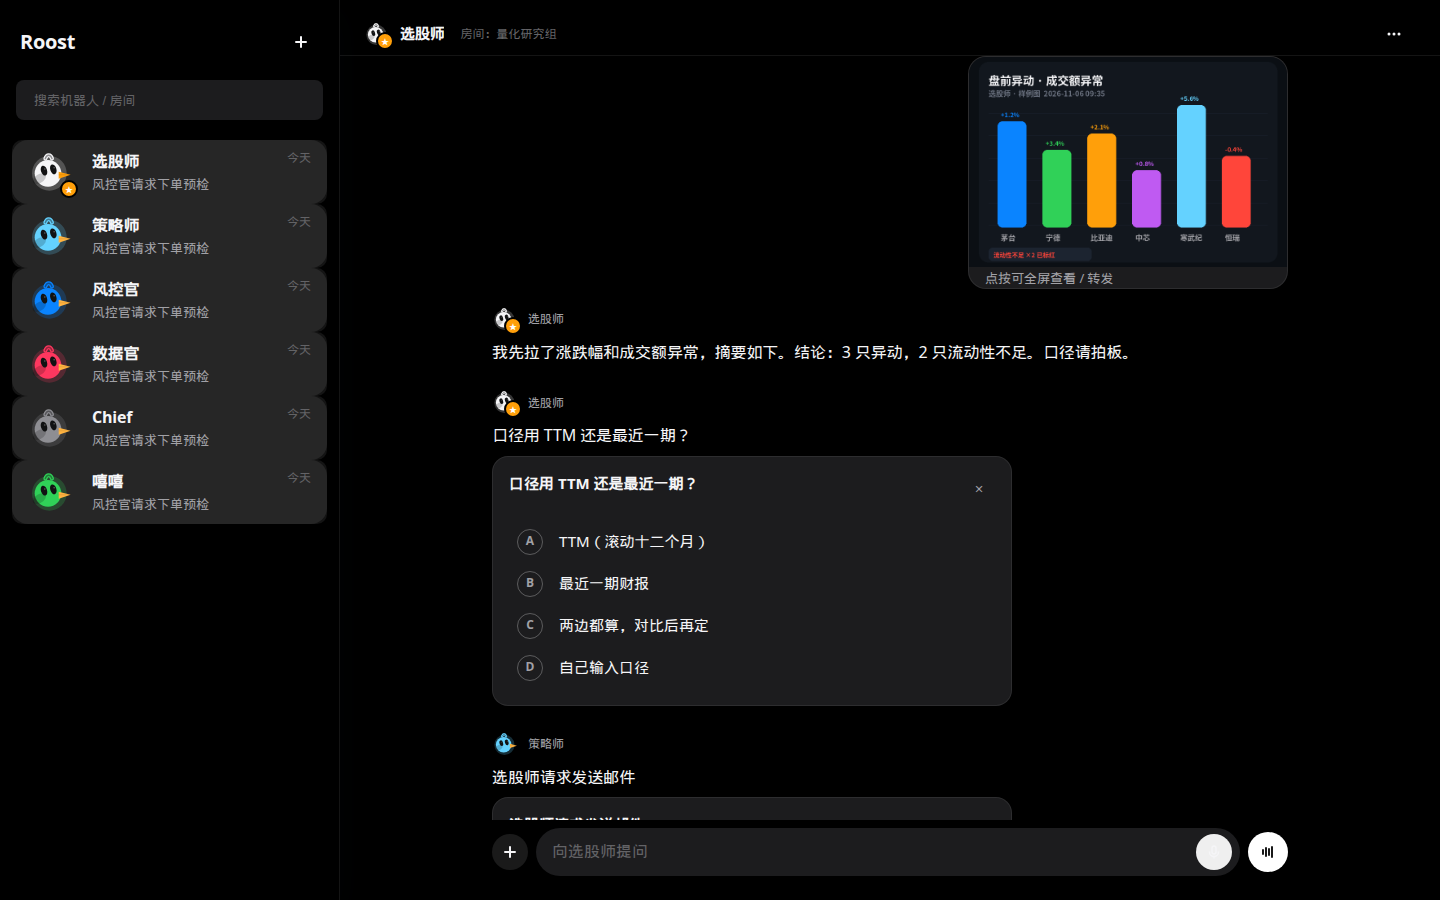
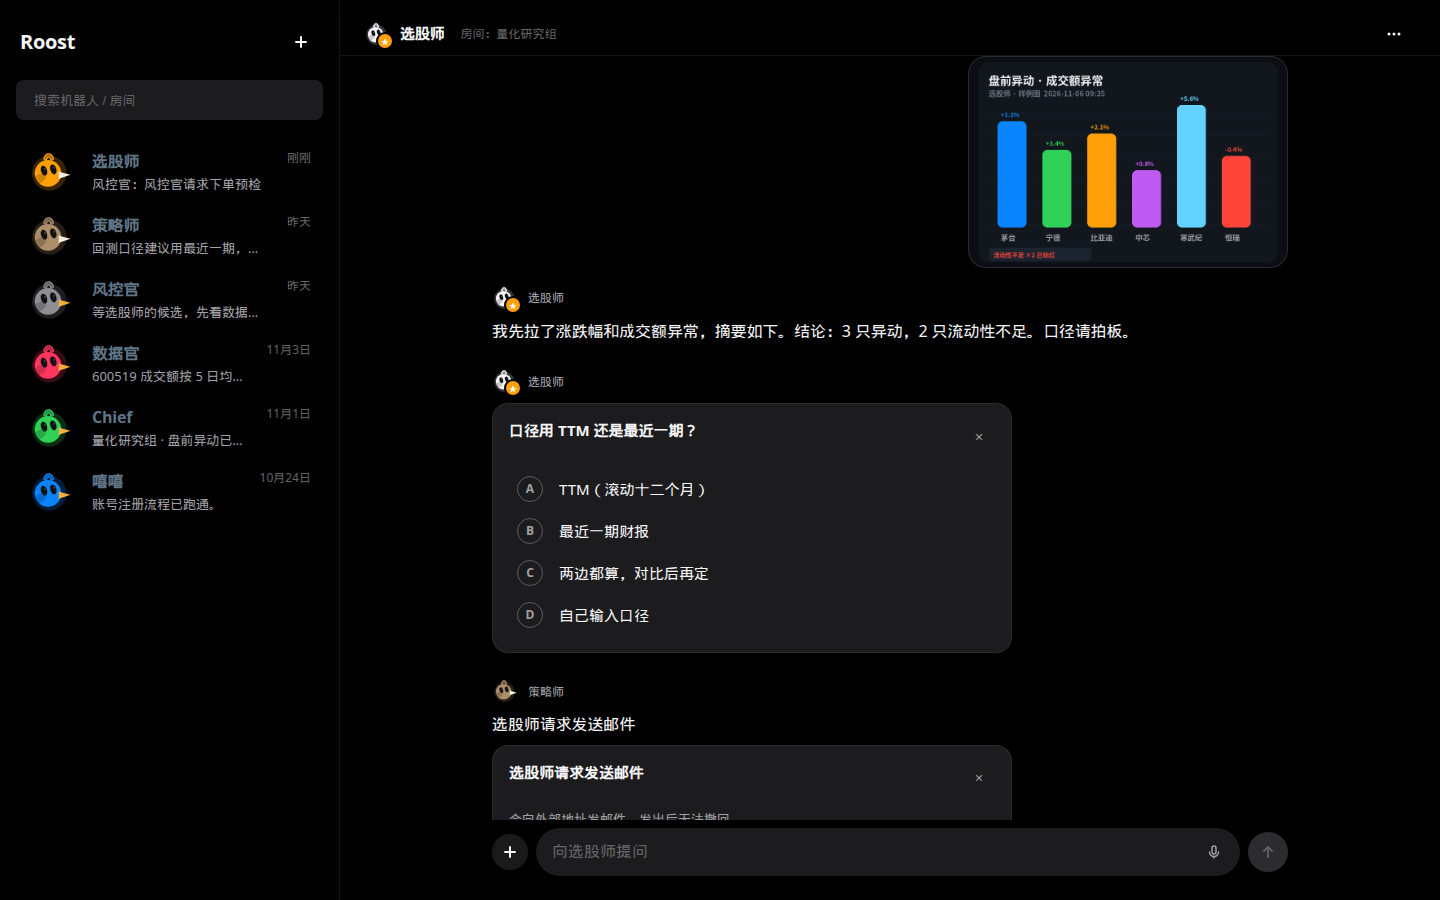
fix: 选项只出现一次，发送按钮和各房间预览分开
带选项卡的消息不再把题干再画成一条气泡。发送是向上的箭头，空着时禁用，语音按钮仍单独留着。
首页每一行用那个房间自己的最后一条，图片不再垫说明条。

Changed region(s): [[0.3438, 0.28, 0.9062, 0.9333], [0.0, 0.1556, 0.25, 0.5911], [0.8125, 0.9022, 0.9062, 0.9644]]

diff --git a/apps/web/app.js b/apps/web/app.js
@@ -475,10 +475,12 @@ function renderRoomMessage(event) {
   head.append(el('span', { class: 'msg-name', text: bot.name }))
   article.append(head)
   const bubble = el('div', { class: 'bubble bubble-bot' })
-  if (typeof event.payload.text === 'string' && event.payload.text.trim() !== '') {
-    bubble.append(markdownFragment(event.payload.text))
-  }
-  article.append(bubble)
+  const text = typeof event.payload.text === 'string' ? event.payload.text.trim() : ''
+  const parts = Array.isArray(event.payload.parts) ? event.payload.parts : []
+  const choice = parts.find((part) => part && part.type === 'choice')
+  const question = choice && typeof choice.prompt === 'string' ? choice.prompt.trim() : ''
+  if (text !== '' && text !== question) bubble.append(markdownFragment(event.payload.text))
+  if (bubble.childNodes.length > 0) article.append(bubble)
   appendRichParts(article, event, false)
   if (!hasImagePart(event.payload)) {
     const attachments = renderAttachmentList(event.payload.attachments, attachmentContext())
@@ -529,7 +531,8 @@ function renderImagePart(part, event) {
   const card = el('button', { class: 'img-card', type: 'button' })
   const img = el('img', { alt: part.name || '图片' })
   card.append(img)
-  card.append(el('span', { class: 'cap', text: '点按可全屏查看 / 转发' }))
+  const caption = typeof part.caption === 'string' ? part.caption.trim() : ''
+  if (caption !== '') card.append(el('span', { class: 'cap', text: caption }))
   const title = part.name || '图片'
   const open = () => openImageViewer({ src: img.src || src, title, detail: part.artifactId || '' })
   card.addEventListener('click', open)
@@ -1922,8 +1925,9 @@ function conversationEntries() {
   const used = new Set()
   const entries = []
   for (const bot of STORE.bots) {
-    const matches = STORE.rooms.filter((item) => item.hostBotId === bot.id || (item.members || []).some((member) => member.botId === bot.id))
-    const room = matches.sort((a, b) => ((b.members || []).length) - ((a.members || []).length))[0] || null
+    const hosted = STORE.rooms.filter((item) => item.hostBotId === bot.id)
+    const joined = STORE.rooms.filter((item) => (item.members || []).some((member) => member.botId === bot.id))
+    const room = (hosted.length > 0 ? hosted : joined)[0] || null
     if (room) used.add(room.id)
     const members = room && Array.isArray(room.members) ? room.members : []
     entries.push({
@@ -1957,15 +1961,28 @@ function messagePreviewText(message) {
 function formatShanghai(iso) {
   const date = new Date(iso)
   if (Number.isNaN(date.getTime())) return ''
+  const delta = Date.now() - date.getTime()
+  if (delta >= 0 && delta < 60_000) return '刚刚'
+  if (delta >= 0 && delta < 60 * 60_000) return `${Math.max(1, Math.floor(delta / 60_000))} 分钟前`
   const day = new Intl.DateTimeFormat('en-CA', { timeZone: 'Asia/Shanghai', year: 'numeric', month: '2-digit', day: '2-digit' })
+  const clock = new Intl.DateTimeFormat('zh-CN', { timeZone: 'Asia/Shanghai', hour: '2-digit', minute: '2-digit', hour12: false })
   const today = day.format(new Date())
   const that = day.format(date)
-  if (that === today) return '今天'
+  if (that === today) return `今天 ${clock.format(date)}`
   const yesterday = day.format(new Date(Date.now() - 24 * 60 * 60 * 1000))
   if (that === yesterday) return '昨天'
-  const month = Number(that.slice(5, 7))
-  const dateOfMonth = Number(that.slice(8, 10))
-  return `${month}月${dateOfMonth}日`
+  return `${Number(that.slice(5, 7))}月${Number(that.slice(8, 10))}日`
+}
+
+function previewLine(message, entry) {
+  const body = messagePreviewText(message)
+  const actor = message && message.actor
+  if (!actor) return body
+  if (actor.kind === 'user') return `你：${body}`
+  if (actor.kind === 'bot' && entry && entry.bot && actor.id !== entry.bot.id) {
+    return `${botIdentity(actor.id).name}：${body}`
+  }
+  return body
 }
 
 async function loadRoomPreview(roomId) {
@@ -1973,9 +1990,16 @@ async function loadRoomPreview(roomId) {
   const data = await api.get(`/api/rooms/${encodeURIComponent(roomId)}/messages?limit=1`)
   const messages = Array.isArray(data?.messages) ? data.messages : []
   const last = messages[messages.length - 1]
-  const preview = { text: messagePreviewText(last), at: last && last.at ? formatShanghai(last.at) : '' }
+  const preview = { message: last || null, at: last && last.at ? formatShanghai(last.at) : '' }
   roomPreviews.set(roomId, preview)
   return preview
+}
+
+function roomsForBot(bot) {
+  if (!bot) return []
+  const hosted = STORE.rooms.filter((item) => item.hostBotId === bot.id)
+  if (hosted.length > 0) return hosted
+  return STORE.rooms.filter((item) => (item.members || []).some((member) => member.botId === bot.id))
 }
 
 function renderChatRow(entry) {
@@ -1984,20 +2008,30 @@ function renderChatRow(entry) {
   row.append(botAvatar(entry.bot, 48, { round: true, primary: entry.primary === true }))
   const text = el('div', { class: 'home-copy' })
   text.append(el('strong', { text: entry.title }))
-  const preview = el('span', { class: 'home-preview', text: entry.room ? '…' : '点开看看' })
+  const preview = el('span', { class: 'home-preview', text: '…' })
   text.append(preview)
   row.append(text)
   const time = el('time', { class: 'home-time', text: '' })
   row.append(time)
-  if (entry.room) {
-    void loadRoomPreview(entry.room.id).then((item) => {
-      if (!preview.isConnected) return
-      preview.textContent = item.text
-      time.textContent = item.at
-    }).catch(() => {
-      if (preview.isConnected) preview.textContent = '点开看看'
-    })
+  const candidates = roomsForBot(entry.bot)
+  if (candidates.length === 0) {
+    preview.textContent = '点开看看'
+    return row
   }
+  void (async () => {
+    let best = null
+    for (const room of candidates) {
+      const item = await loadRoomPreview(room.id)
+      const at = item.message && item.message.at ? Date.parse(item.message.at) : 0
+      if (!best || at >= best.at) best = { room, item, at }
+    }
+    if (!preview.isConnected || !best) return
+    row.href = `#/rooms/${encodeURIComponent(best.room.id)}`
+    preview.textContent = best.item.message ? previewLine(best.item.message, entry) : '还没有消息'
+    time.textContent = best.item.at
+  })().catch(() => {
+    if (preview.isConnected) preview.textContent = '点开看看'
+  })
   return row
 }
 
@@ -2672,8 +2706,10 @@ async function enterLiveRoom(token) {
 function syncSend() {
   const input = $('#composer')
   const send = $('#send')
+  const files = $('#composer-files')
   if (!input || !send) return
-  send.disabled = input.disabled || input.value.trim() === ''
+  const hasFile = Boolean(files && !files.hidden && files.childElementCount > 0)
+  send.disabled = input.disabled || (input.value.trim() === '' && !hasFile)
 }
 
 function growComposer() {
@@ -3060,6 +3096,7 @@ function setupComposer() {
           chips.hidden = false
           chips.append(el('span', { text: chosen.name || '图片' }))
         }
+        syncSend()
       } catch (error) {
         showComposerError(error instanceof Error ? error.message : '上传失败')
       }

diff --git a/apps/web/index.html b/apps/web/index.html
@@ -259,8 +259,8 @@
             <svg width="16" height="16" viewBox="0 0 16 16" fill="none" aria-hidden="true"><rect x="6" y="2" width="4" height="8" rx="2" stroke="currentColor" stroke-width="1.5"/><path d="M3.5 8a4.5 4.5 0 0 0 9 0M8 12.5V14" stroke="currentColor" stroke-width="1.5" stroke-linecap="round"/></svg>
           </button>
           </div>
-          <button id="send" class="voice-btn" type="submit" title="发送" aria-label="发送" aria-keyshortcuts="Meta+Enter Control+Enter">
-            <svg width="16" height="16" viewBox="0 0 16 16" fill="none" aria-hidden="true"><path d="M3 6v4M6 4v8M9 5v6M12 3v10" stroke="#000" stroke-width="1.8" stroke-linecap="round"/></svg>
+          <button id="send" class="voice-btn" type="submit" title="发送" aria-label="发送" aria-keyshortcuts="Meta+Enter Control+Enter" disabled>
+            <svg width="16" height="16" viewBox="0 0 16 16" fill="none" aria-hidden="true"><path d="M8 13V3M8 3L4 7M8 3l4 4" stroke="currentColor" stroke-width="1.8" stroke-linecap="round" stroke-linejoin="round"/></svg>
           </button>
           <p id="composer-error" class="composer-error" role="alert" hidden></p>
           <div class="composer-foot">

diff --git a/apps/web/styles-grok.css b/apps/web/styles-grok.css
@@ -600,6 +600,14 @@
   padding: 0;
 }
 
+#room-view .voice-btn:disabled {
+  background: var(--surface-2);
+  color: var(--text-3);
+  cursor: default;
+}
+
+#room-view .mic-btn { color: var(--text-2); background: transparent; }
+
 #room-view .voice-btn kbd { display: none; }
 
 #room-view .composer-error {
